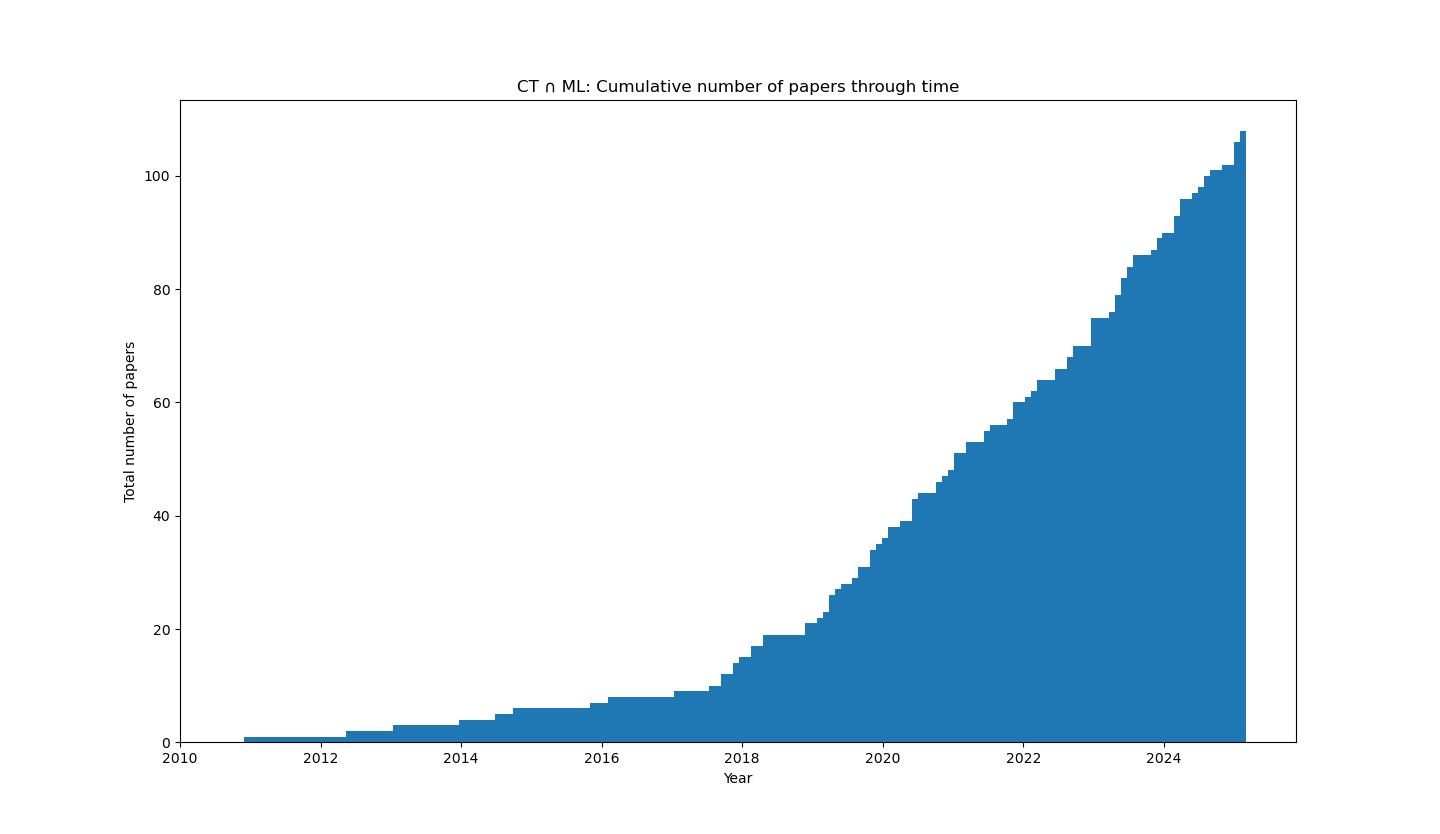
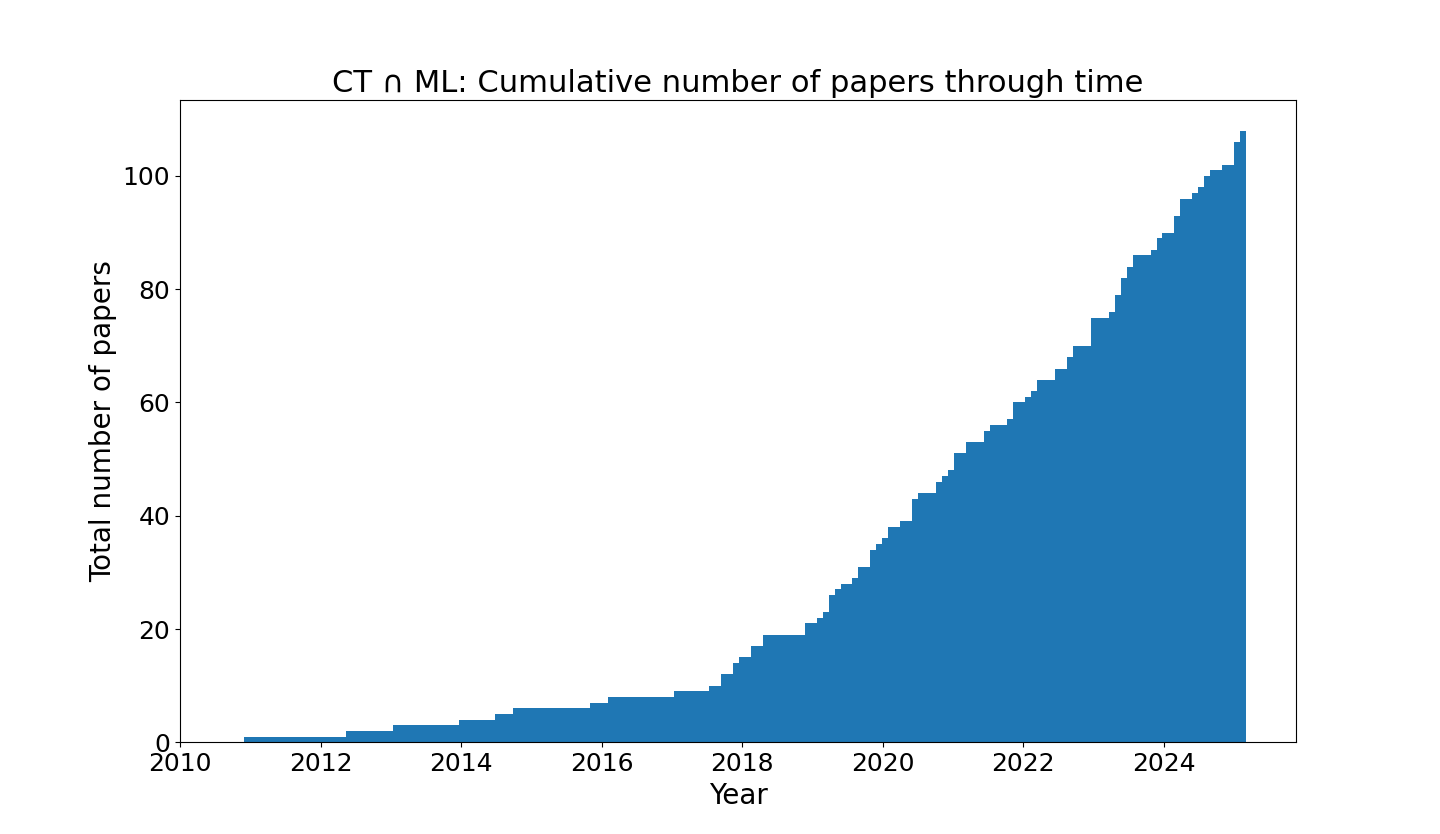
updated plot

diff --git a/paper_plot.py b/paper_plot.py
@@ -16,7 +16,8 @@ data = np.array([2000 + int(year) + int(month) / 12 for year, month in data_stri
 plt.rcParams["figure.figsize"] = (8,4.8)
 plt.hist(data, 168, cumulative="True")
 plt.xticks(range(2010, 2025, 2))
-plt.title("CT ∩ ML: Cumulative number of papers through time")
-plt.xlabel("Year")
-plt.ylabel("Total number of papers")
+plt.title("CT ∩ ML: Cumulative number of papers through time", fontsize=22)
+plt.xlabel("Year", fontsize=20)
+plt.ylabel("Total number of papers", fontsize=20)
+plt.tick_params(axis='both', which='major', labelsize=18)
 plt.show()
